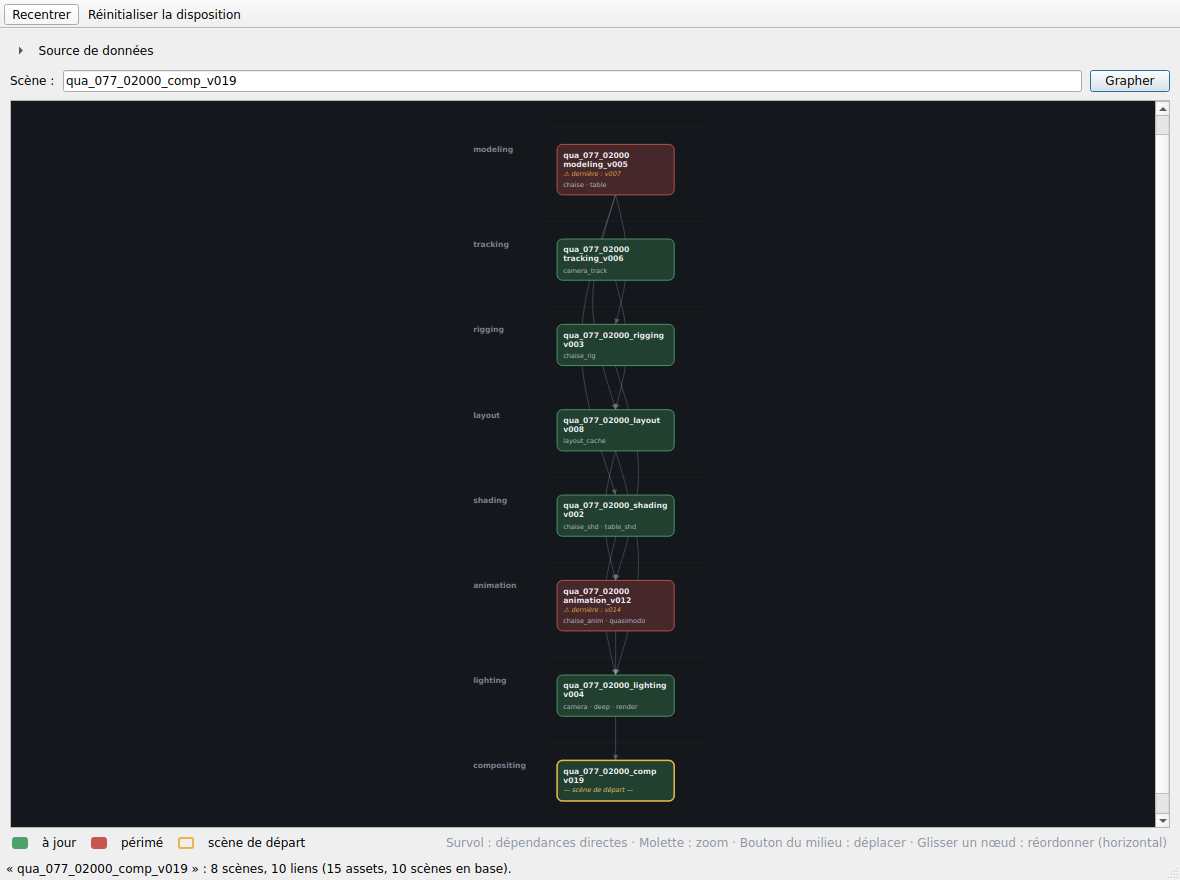
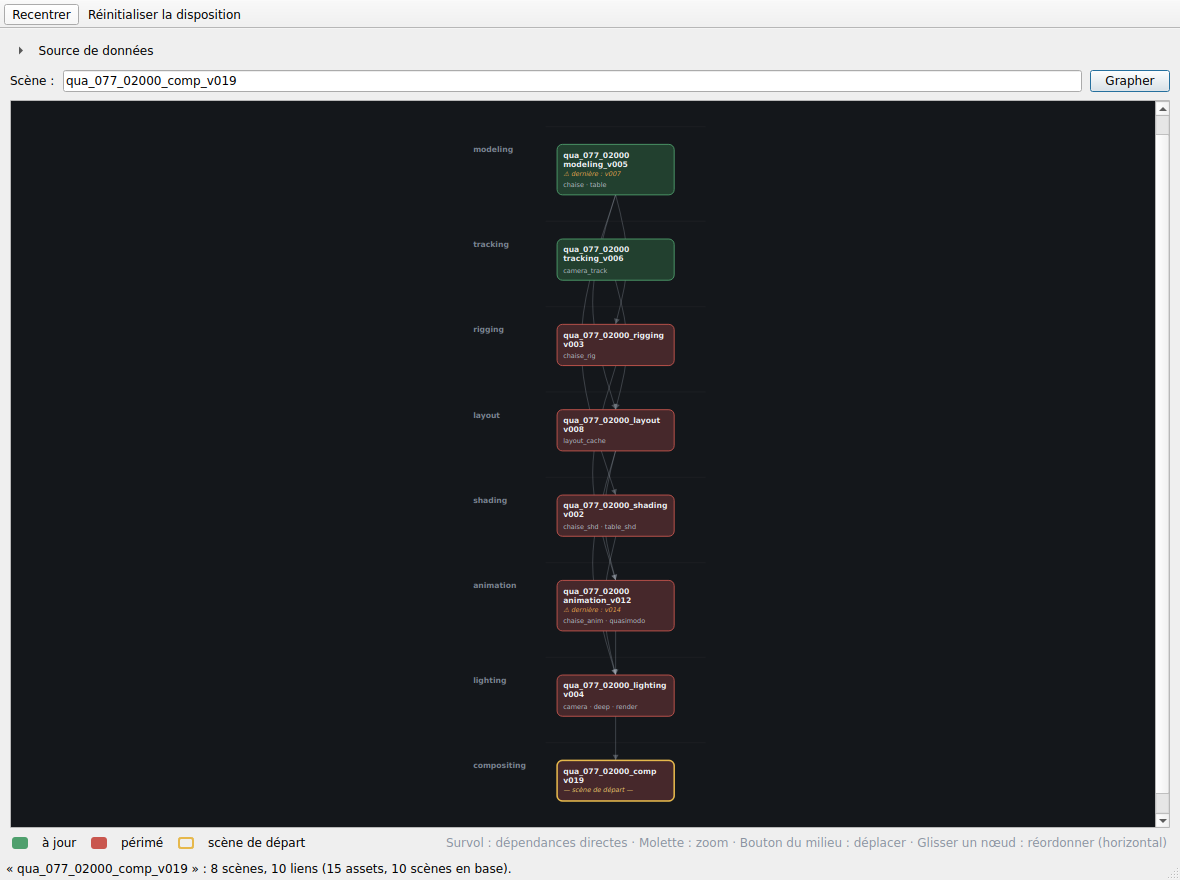
Color scenes by dependency propagation
Replace the per-output staleness rule with input-based propagation: a
node stays green only if all its inputs are up to date, otherwise red.

- An input (an imported asset) is up to date when its version equals the
  latest EXPORTED version of that asset's stream (asset-level comparison,
  not the scene's latest version).
- Redness seeds at any node importing a superseded asset and propagates
  downstream (parent -> child), so a node built even indirectly on a
  stale input is flagged too. Propagation is cycle-safe.
- A node with no inputs (a graph source) stays green; the "latest
  version" badge is now derived from the node's exported assets and still
  signals when a newer version exists.

Updates the README colour semantics and the sample preview accordingly.

Claude-Session: https://claude.ai/code/session_01GL1NrAAADWmdjd3Lex9oyP

diff --git a/graph_model.py b/graph_model.py
@@ -365,13 +365,27 @@ def build_graph(assets, scenes, binds, input_name):
             edge_set.add((dep_key, start_key))
     result.edges = sorted(edge_set)
 
-    # Statut / couleur + info « dernière version ».
+    # Inputs (assets importés) de chaque nœud, pour la coloration par
+    # propagation. asset_edges = (enfant, parent) : l'enfant importe le
+    # parent, donc le parent est un input du nœud producteur de l'enfant.
+    node_inputs = defaultdict(set)
+    for child_aid, parent_aid in asset_edges:
+        node_inputs[_asset_scene_key(assets[child_aid])].add(parent_aid)
+    for aid in s0_dep_assets:                      # inputs directs de S0
+        node_inputs[start_key].add(aid)
+
+    # Badge « dernière version » (basé sur les versions d'assets exportés).
     for node in result.nodes.values():
-        _compute_status(node, scene_stream_max, asset_stream_max)
+        _compute_freshness_badge(node, scene_stream_max, asset_stream_max)
         node.display_name = canonical_name(
             node.project or prefix, node.entity_name, node.task_name,
             node.av_name, node.version,
         )
+
+    # Statut par propagation : un nœud est vert seulement si tous ses inputs
+    # sont à jour (importés à la dernière version exportée de l'asset) ET si
+    # tous les nœuds produisant ces inputs sont eux-mêmes verts.
+    _propagate_status(result, node_inputs, assets, asset_stream_max)
 
     _assign_layout(result)
 
@@ -383,38 +397,69 @@ def build_graph(assets, scenes, binds, input_name):
     return result
 
 
-def _compute_status(node, scene_stream_max, asset_stream_max):
-    """Détermine node.status, node.latest_version, node.is_latest."""
-    # Dernière version de la scène (pour l'affichage et la compo).
-    scene_stream = (node.project, node.entity_name, node.task_name,
-                    node.av_name)
-    scene_latest = scene_stream_max.get(scene_stream)
-    if scene_latest is None:
-        scene_latest = node.version
-    node.latest_version = scene_latest
-    node.is_latest = (node.version is None or scene_latest is None
-                      or node.version >= scene_latest)
+def _compute_freshness_badge(node, scene_stream_max, asset_stream_max):
+    """Renseigne node.latest_version / node.is_latest pour l'affichage.
 
+    La « dernière version » est celle du/des asset(s) exporté(s) par la scène
+    (pas la dernière version de la scène). Pour une scène sans output suivi
+    (la compo), on retombe sur le flux de scène, faute d'asset à comparer.
+    """
     if node.node_names:
-        # Scène à outputs : rouge si AU MOINS un output est supplanté par
-        # une version plus récente du MÊME node (test au niveau output).
-        stale = False
-        if node.version is not None:
-            for name in node.node_names:
-                stream = (node.project, node.entity_name, node.task_name,
-                          node.av_name, name)
-                latest = asset_stream_max.get(stream)
-                if latest is not None and node.version < latest:
-                    stale = True
-                    break
-        node.status = "stale" if stale else "ok"
+        maxes = []
+        for name in node.node_names:
+            m = asset_stream_max.get(
+                (node.project, node.entity_name, node.task_name,
+                 node.av_name, name))
+            if m is not None:
+                maxes.append(m)
+        node.latest_version = max(maxes) if maxes else node.version
     else:
-        # Scène sans output suivi (la compo) : test au niveau du flux scène.
-        if (node.version is not None and scene_latest is not None
-                and node.version < scene_latest):
-            node.status = "stale"
-        else:
-            node.status = "ok"
+        node.latest_version = scene_stream_max.get(
+            (node.project, node.entity_name, node.task_name, node.av_name),
+            node.version)
+    node.is_latest = (node.version is None or node.latest_version is None
+                      or node.version >= node.latest_version)
+
+
+def _input_is_stale(asset, asset_stream_max):
+    """Vrai si cet asset importé n'est pas à sa dernière version exportée."""
+    if asset is None or asset["version"] is None:
+        return False
+    stream = (asset["project"], asset["entity_name"], asset["task_name"],
+              asset["av_name"], asset["node_name"])
+    latest = asset_stream_max.get(stream)
+    return latest is not None and asset["version"] < latest
+
+
+def _propagate_status(result, node_inputs, assets, asset_stream_max):
+    """Coloration par propagation.
+
+    Graine : tout nœud important au moins un asset supplanté (comparé à la
+    dernière version exportée de cet asset). La couleur rouge se propage
+    ensuite vers l'aval (parent -> enfant) : un nœud construit sur un input
+    périmé — même indirectement — est périmé lui aussi.
+    """
+    red = set()
+    for key, node in result.nodes.items():
+        for pid in node_inputs.get(key, ()):
+            if _input_is_stale(assets.get(pid), asset_stream_max):
+                red.add(key)
+                break
+
+    children = defaultdict(list)
+    for top_key, bottom_key in result.edges:
+        children[top_key].append(bottom_key)
+
+    stack = list(red)
+    while stack:
+        key = stack.pop()
+        for child in children.get(key, ()):
+            if child not in red:
+                red.add(child)
+                stack.append(child)
+
+    for key, node in result.nodes.items():
+        node.status = "stale" if key in red else "ok"
 
 
 # ---------------------------------------------------------------------------

diff --git a/README.md b/README.md
@@ -8,8 +8,9 @@ scènes dont elle dépend, coloré selon leur fraîcheur.
   la liste de ses *nodes* (outputs) regroupés en dessous ;
 * une **ligne par type de tâche**, les sources en haut et le compositing en
   bas (le flux descend) ;
-* **vert** = scène à jour · **rouge** = au moins un output supplanté par une
-  version plus récente ;
+* **vert** = tous les inputs à jour · **rouge** = au moins un input importé
+  n'est pas à sa dernière version exportée, ou un ancêtre l'est
+  (**coloration par propagation**) ;
 * nœuds **déplaçables horizontalement** (le Y reste verrouillé sur la ligne
   de la tâche) ; **survol** = mise en évidence des dépendances directes ;
   **molette** = zoom ; **bouton du milieu** = déplacement (pan).
@@ -146,17 +147,28 @@ Trois tables comptent : `assets`, `scenes`, `binds`.
 > La table `assets_parents` est **ignorée** (cache partiel/incohérent) : toute
 > la récursion passe par `scenes` + `binds`.
 
-**Couleur d'un nœud** :
+**Couleur d'un nœud — par propagation** :
 
-* scène **à outputs** → **rouge** si au moins un de ses outputs est supplanté
-  (il existe une version plus récente du *même* node sur son stream) ; sinon
-  vert. Le test est fait **au niveau output**, pas au niveau version max de la
-  scène (une `v22` ne paraît pas périmée juste parce qu'une `v23` a republié
-  un *autre* node) ;
-* scène **sans output suivi** (la compo) → rouge si sa version est inférieure
-  à la dernière version connue de son stream de scène.
+Un nœud reste **vert** seulement si **tous ses inputs sont à jour** ; sinon il
+est **rouge**. Un *input* est un asset importé (via un bind actif) : il est « à
+jour » si sa version est la **dernière version exportée de cet asset**
+(comparaison au niveau de l'asset, **pas** de la version de scène).
 
-Chaque nœud indique aussi s'il n'est pas la dernière version
+La couleur se **propage vers l'aval** : un nœud construit — même indirectement
+— sur un input périmé devient rouge lui aussi.
+
+* **rouge** si le nœud importe au moins un asset supplanté (une version plus
+  récente de ce même asset existe), **ou** si l'un de ses ancêtres (amont) est
+  rouge ;
+* **vert** sinon (un nœud sans input, à la source du graphe, est vert).
+
+> Conséquence : le nœud à l'origine d'une republication (ex. un `modeling` dont
+> un `v007` existe alors que le graphe tire un `v005`) peut rester vert — ses
+> propres inputs sont sains — tandis que **tout ce qui l'importe** passe au
+> rouge. Le badge « ⚠ dernière : v007 » signale néanmoins qu'une version plus
+> récente existe.
+
+Chaque nœud indique en effet s'il n'est pas la dernière version exportée
 (« ⚠ dernière : v020 »).
 
 ---
